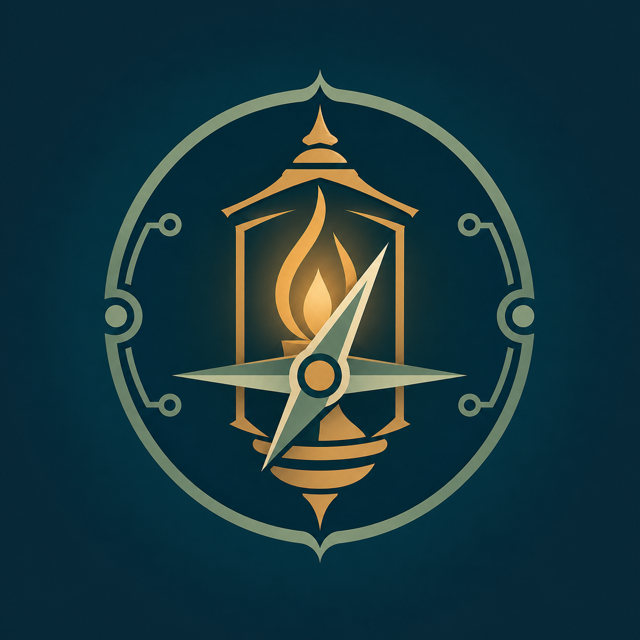
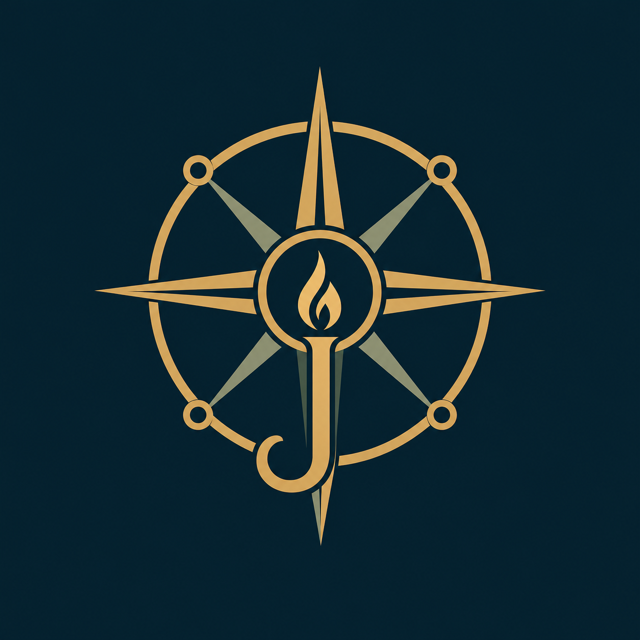
Adopt new Jarvis visual identity

Changed region(s): [[0.1562, 0.125, 0.8438, 0.875]]

diff --git a/src/components/brand/BrandMark.tsx b/src/components/brand/BrandMark.tsx
@@ -5,26 +5,38 @@ interface BrandMarkProps {
 
 export function BrandMark({ className = 'w-10 h-10', title = 'Jarvis' }: BrandMarkProps) {
   return (
-    <svg className={className} viewBox="0 0 64 64" role="img" aria-label={title} fill="none">
-      <circle cx="29" cy="27" r="18" stroke="currentColor" strokeWidth="2" />
-      <circle cx="29" cy="27" r="3" fill="currentColor" />
-      {[0, 45, 90, 135].map(angle => (
-        <path
-          key={angle}
-          d="M29 5V16M29 38V49"
-          stroke="currentColor"
-          strokeWidth="2"
-          strokeLinecap="square"
-          transform={`rotate(${angle} 29 27)`}
-        />
-      ))}
+    <svg className={className} viewBox="0 0 100 100" role="img" aria-label={title} fill="none">
+      <rect width="100" height="100" rx="18" fill="#082C39" />
+      <circle cx="50" cy="48" r="34" stroke="#D8A84E" strokeWidth="3" />
+      <g fill="#D8A84E">
+        <path d="M50 5 54 37H46L50 5Z" />
+        <path d="m95 48-32 4v-8l32 4Z" />
+        <path d="m5 48 32-4v8L5 48Z" />
+        <path d="m50 94-4-31h8l-4 31Z" />
+      </g>
+      <g fill="#9DAF91">
+        <path d="m21 19 22 17-6 6-16-23Z" />
+        <path d="m79 19-16 23-6-6 22-17Z" />
+        <path d="m79 77-22-17 6-6 16 23Z" />
+        <path d="m21 77 16-23 6 6-22 17Z" />
+      </g>
+      <g fill="#082C39" stroke="#D8A84E" strokeWidth="3">
+        <circle cx="24" cy="24" r="4" />
+        <circle cx="76" cy="24" r="4" />
+        <circle cx="76" cy="72" r="4" />
+        <circle cx="24" cy="72" r="4" />
+        <circle cx="50" cy="48" r="13" />
+      </g>
       <path
-        d="M29 27V48C29 56 39 59 44 52C47 48 46 43 46 38"
-        stroke="currentColor"
-        strokeWidth="3"
+        d="M50 37c1.2 5.4-4.8 7.8-4.8 13 0 3.3 2 5.9 5.1 7.1-1.2-2.5-.5-4.7 1.5-7.1 2.3 3.1 3.7 5.5 3.7 8 0 3.4-2.2 6.1-5.5 7.2-5.8-1.5-9.2-5.6-9.2-10.7 0-6.5 6.6-10 9.2-17.5Z"
+        fill="#F0BD58"
+      />
+      <path
+        d="M50 61v18c0 7-5 10-9.4 7.4-2.8-1.7-3.1-5.8-.7-7.9"
+        stroke="#D8A84E"
+        strokeWidth="5"
         strokeLinecap="round"
       />
-      <circle cx="29" cy="5" r="2.5" fill="#D8A331" />
     </svg>
   );
 }

diff --git a/public/cambusa-sw.js b/public/cambusa-sw.js
@@ -1,5 +1,13 @@
-const CACHE = 'cambusa-famiglia-v1';
-const SHELL = ['/cambusa.html', '/cambusa.webmanifest', '/jarvis-emblem.png', '/jarvis-mark.svg'];
+const CACHE = 'cambusa-famiglia-v2-logo-a';
+const SHELL = [
+  '/cambusa.html',
+  '/cambusa.webmanifest',
+  '/jarvis-emblem.png',
+  '/jarvis-mark.svg',
+  '/jarvis-icon-192.png',
+  '/jarvis-icon-512.png',
+  '/apple-touch-icon.png',
+];
 
 self.addEventListener('install', (event) => {
   event.waitUntil(caches.open(CACHE).then((cache) => cache.addAll(SHELL)));

diff --git a/src/components/altro/JarvisCorePage.tsx b/src/components/altro/JarvisCorePage.tsx
@@ -1,9 +1,10 @@
 import { FormEvent, useMemo, useState } from 'react';
-import { ArrowLeft, Loader2, Send, Sparkles } from 'lucide-react';
+import { ArrowLeft, Loader2, Send } from 'lucide-react';
 import {
   isJarvisCoreConfigured,
   sendJarvisCoreMessage,
 } from '../../lib/jarvis-core';
+import { BrandMark } from '../brand/BrandMark';
 
 interface JarvisCorePageProps {
   onBack: () => void;
@@ -64,6 +65,7 @@ export function JarvisCorePage({ onBack }: JarvisCorePageProps) {
         >
           <ArrowLeft size={20} />
         </button>
+        <BrandMark className="w-11 h-11 flex-shrink-0" title="Jarvis Core" />
         <div>
           <p className="eyebrow text-sage-600">Jarvis 3.0</p>
           <h1 className="section-title leading-tight">Jarvis Core</h1>
@@ -80,7 +82,7 @@ export function JarvisCorePage({ onBack }: JarvisCorePageProps) {
         <div className="flex-1 space-y-3 overflow-y-auto pr-1">
           {turns.length === 0 ? (
             <div className="h-full min-h-[16rem] flex flex-col items-center justify-center text-center text-warm-gray-400">
-              <Sparkles size={28} className="mb-3 text-amber-500" />
+              <BrandMark className="w-16 h-16 mb-4" title="Jarvis" />
               <p className="text-sm">Jarvis è in ascolto.</p>
             </div>
           ) : (

diff --git a/src/components/reminders/ReminderWatcher.tsx b/src/components/reminders/ReminderWatcher.tsx
@@ -22,7 +22,10 @@ export function ReminderWatcher() {
         .lte('remind_at', windowEnd);
 
       for (const reminder of data ?? []) {
-        new Notification(reminder.title, { body: reminder.notes ?? 'Cambiare per Vivere' });
+        new Notification(reminder.title, {
+          body: reminder.notes ?? 'Cambiare per Vivere',
+          icon: '/jarvis-icon-192.png',
+        });
         if (reminder.repeat_rule === 'daily' || reminder.repeat_rule === 'weekly') {
           const next = new Date(reminder.remind_at);
           next.setDate(next.getDate() + (reminder.repeat_rule === 'daily' ? 1 : 7));

diff --git a/cambusa.html b/cambusa.html
@@ -12,7 +12,8 @@
     <title>Cambusa Famiglia</title>
     <link rel="manifest" href="/cambusa.webmanifest" />
     <link rel="icon" type="image/svg+xml" href="/jarvis-mark.svg" />
-    <link rel="apple-touch-icon" href="/jarvis-emblem.png" />
+    <link rel="apple-touch-icon" sizes="180x180" href="/apple-touch-icon.png" />
+    <meta property="og:image" content="/jarvis-emblem.png" />
     <link rel="preconnect" href="https://fonts.googleapis.com" />
     <link rel="preconnect" href="https://fonts.gstatic.com" crossorigin />
     <link href="https://fonts.googleapis.com/css2?family=DM+Sans:wght@400;500;600;700&family=Marcellus&display=swap" rel="stylesheet" />

diff --git a/index.html b/index.html
@@ -12,7 +12,8 @@
     <meta name="apple-mobile-web-app-title" content="Cambiare per Vivere" />
     <link rel="manifest" href="/manifest.webmanifest" />
     <link rel="icon" type="image/svg+xml" href="/jarvis-mark.svg" />
-    <link rel="apple-touch-icon" href="/jarvis-emblem.png" />
+    <link rel="apple-touch-icon" sizes="180x180" href="/apple-touch-icon.png" />
+    <meta property="og:image" content="/jarvis-emblem.png" />
     <link rel="preconnect" href="https://fonts.googleapis.com" />
     <link rel="preconnect" href="https://fonts.gstatic.com" crossorigin />
     <link href="https://fonts.googleapis.com/css2?family=DM+Sans:wght@400;500;600;700&family=Marcellus&display=swap" rel="stylesheet" />

diff --git a/src/App.tsx b/src/App.tsx
@@ -23,7 +23,6 @@ import {
   Moon,
   Route,
   Salad,
-  Sparkles,
   TrendingUp,
 } from 'lucide-react';
 import type { LucideIcon } from 'lucide-react';
@@ -118,7 +117,7 @@ function DesktopRightRail() {
         aria-label="Apri Jarvis Core"
       >
         <div className="flex items-center gap-2 mb-3">
-          <Sparkles size={18} className="text-amber-600" />
+          <BrandMark className="w-9 h-9 flex-shrink-0" title="Jarvis" />
           <h2 className="font-display text-xl text-petrol-900">Jarvis 3.0</h2>
         </div>
         <p className="text-sm text-warm-gray-600 leading-relaxed">